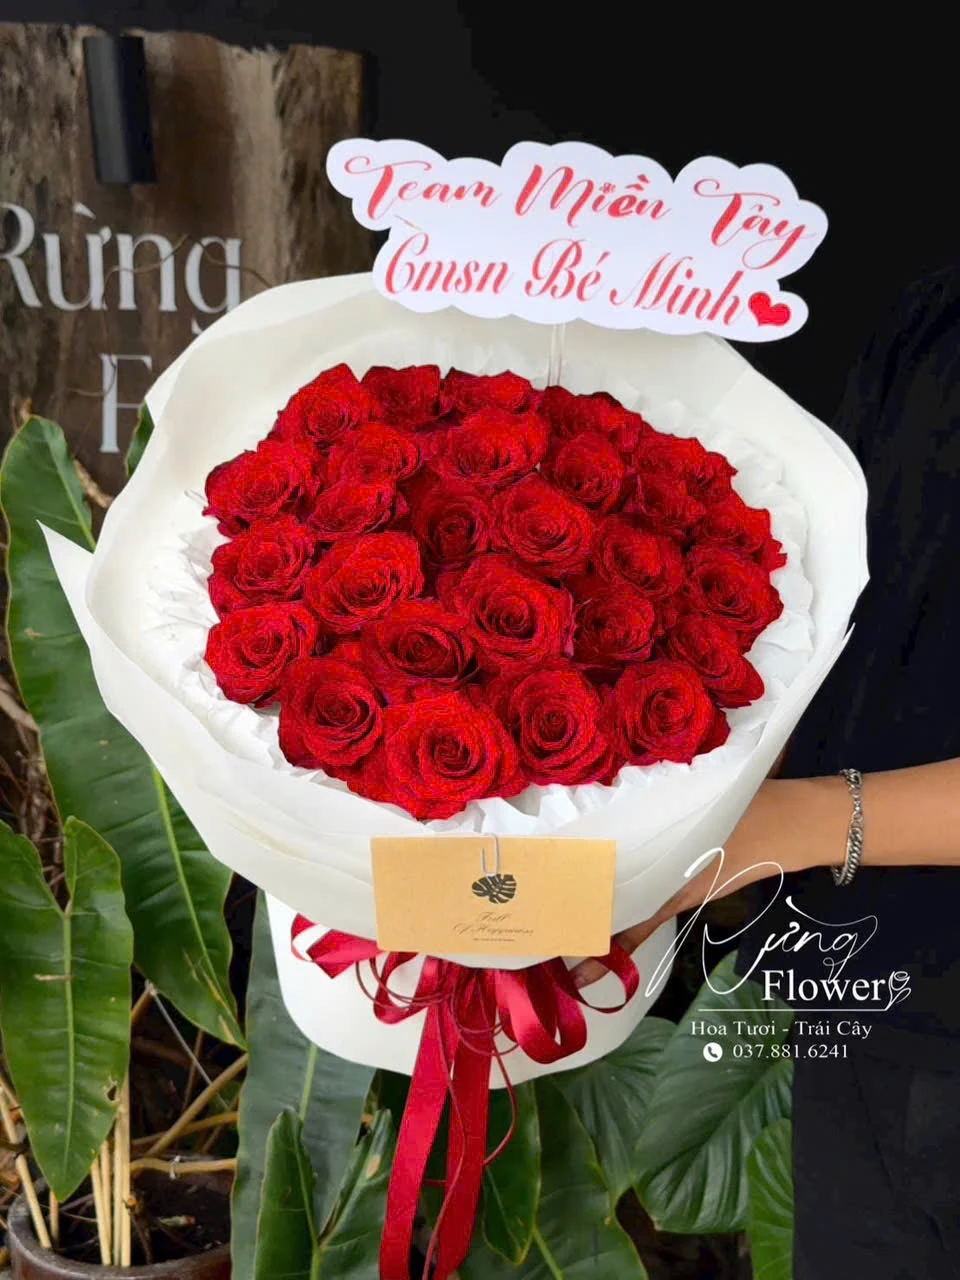
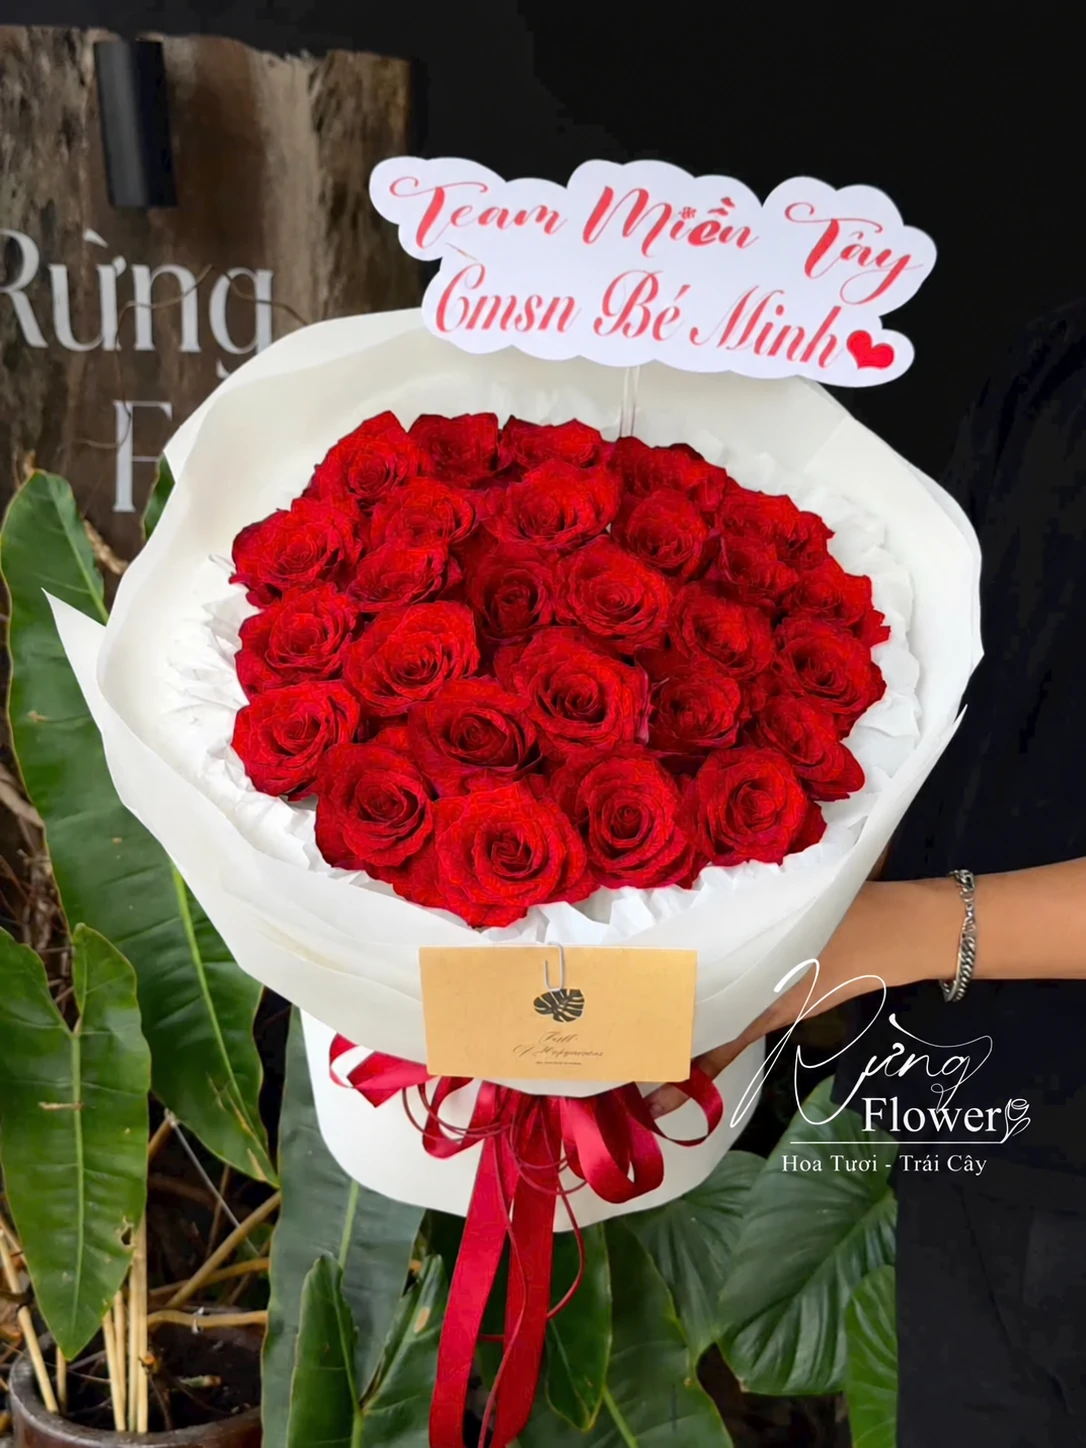
fix: 更新作品圖片並移除 R008 電話

diff --git a/gallery/index.html b/gallery/index.html
@@ -189,7 +189,7 @@
         },
         {
           "@type": "ImageObject",
-          "contentUrl": "https://flower-shop-vn.com/images/gallery/2026/r008.webp",
+          "contentUrl": "https://flower-shop-vn.com/images/gallery/2026/r008.webp?v=b58aa34a6f48",
           "caption": "R008 紅玫瑰・白色圓形包裝（作品照片）"
         },
         {
@@ -451,6 +451,21 @@
           "@type": "ImageObject",
           "contentUrl": "https://flower-shop-vn.com/images/gallery/2026/b017.webp",
           "caption": "B017 奶油粉綜合花束・自然色包裝"
+        },
+        {
+          "@type": "ImageObject",
+          "contentUrl": "https://flower-shop-vn.com/images/gallery/2026/b018.webp",
+          "caption": "B018 向日葵綜合花束・黑色包裝"
+        },
+        {
+          "@type": "ImageObject",
+          "contentUrl": "https://flower-shop-vn.com/images/gallery/2026/r039.webp",
+          "caption": "R039 奶油色玫瑰・淡色網紗"
+        },
+        {
+          "@type": "ImageObject",
+          "contentUrl": "https://flower-shop-vn.com/images/gallery/2026/m010.webp",
+          "caption": "M010 粉色鈔票花束・白色層疊包裝"
         }
       ]
     },
@@ -503,9 +518,9 @@
             <h1>花束與禮籃，先從照片選方向。</h1>
             <p>查看花束、瓶插花禮、鈔票花束與水果禮籃的款式。找到喜歡的方向後，提供作品編號或作品連結，加上收件城市、日期與預算，就能向中文客服詢價。</p>
             <nav class="button-row" aria-label="作品分類">
-              <a class="button button-secondary" href="#roses">花束與配色 · 55</a>
+              <a class="button button-secondary" href="#roses">花束與配色 · 57</a>
               <a class="button button-secondary" href="#vase-arrangements">瓶插花禮 · 1</a>
-              <a class="button button-secondary" href="#money-bouquets">鈔票花束 · 9</a>
+              <a class="button button-secondary" href="#money-bouquets">鈔票花束 · 10</a>
               <a class="button button-secondary" href="#fruit-baskets">水果與花果禮籃 · 16</a>
             </nav>
           </div>
@@ -525,6 +540,19 @@
       <div class="container">
         <div class="section-heading"><h2 id="roses-title">花束與配色</h2><p>查看紅色、粉白色、藍色玫瑰、繡球與綜合花束，從花色、花面及包裝比例挑選方向。</p></div>
         <div class="case-gallery-grid">
+          <article class="case-card portfolio-work" id="work-B018">
+            <a href="/images/gallery/2026/b018.webp" target="_blank" rel="noopener" aria-label="放大作品 B018：向日葵綜合花束・黑色包裝"><img src="/images/gallery/2026/b018.webp" alt="向日葵綜合花束・黑色包裝" width="966" height="1600" loading="lazy" decoding="async"></a>
+            <div class="case-card-body"><span class="case-category">作品照片</span><p class="work-code">作品 B018</p><h3>向日葵綜合花束・黑色包裝</h3><p>向日葵搭配粉色、奶油色與藍色花材，使用黑色多層包裝，可參考大花面的配色與層次。</p>
+              <div class="button-row"><a class="button button-secondary" href="/contact/?work=B018#inquiry">用這款詢價</a><a class="work-permalink" href="#work-B018">作品連結</a></div>
+            </div>
+          </article>
+          <article class="case-card portfolio-work" id="work-R039">
+            <a href="/images/gallery/2026/r039.webp" target="_blank" rel="noopener" aria-label="放大作品 R039：奶油色玫瑰・淡色網紗"><img src="/images/gallery/2026/r039.webp" alt="奶油色玫瑰・淡色網紗" width="1200" height="1600" loading="lazy" decoding="async"></a>
+            <div class="case-card-body"><span class="case-category">作品照片</span><p class="work-code">作品 R039</p><h3>奶油色玫瑰・淡色網紗</h3><p>奶油色玫瑰搭配尤加利葉、白色包裝與淡色網紗蝴蝶結，可參考柔和的花面與包裝比例。</p>
+              <div class="button-row"><a class="button button-secondary" href="/contact/?work=R039#inquiry">用這款詢價</a><a class="work-permalink" href="#work-R039">作品連結</a></div>
+            </div>
+          </article>
+
           <article class="case-card portfolio-work" id="work-R035">
             <a href="/images/gallery/2026/r035.webp" target="_blank" rel="noopener" aria-label="放大作品 R035：淡粉玫瑰・粉色蝴蝶結"><img src="/images/gallery/2026/r035.webp" alt="淡粉玫瑰・粉色蝴蝶結" width="869" height="894" loading="lazy" decoding="async"></a>
             <div class="case-card-body"><span class="case-category">作品照片</span><p class="work-code">作品 R035</p><h3>淡粉玫瑰・粉色蝴蝶結</h3><p>淡粉玫瑰搭配白色滿天星、粉色包裝與蝴蝶結，可參考花面及包裝細節。</p>
@@ -732,7 +760,7 @@
             </div>
           </article>
           <article class="case-card portfolio-work" id="work-R008">
-            <a href="/images/gallery/2026/r008.webp" target="_blank" rel="noopener" aria-label="放大作品 R008：紅玫瑰・白色圓形包裝"><img src="/images/gallery/2026/r008.webp" alt="紅玫瑰・白色圓形包裝" width="960" height="1280" loading="lazy" decoding="async"></a>
+            <a href="/images/gallery/2026/r008.webp?v=b58aa34a6f48" target="_blank" rel="noopener" aria-label="放大作品 R008：紅玫瑰・白色圓形包裝"><img src="/images/gallery/2026/r008.webp?v=b58aa34a6f48" alt="紅玫瑰・白色圓形包裝" width="1086" height="1448" loading="lazy" decoding="async"></a>
             <div class="case-card-body"><span class="case-category">作品照片</span><p class="work-code">作品 R008</p><h3>紅玫瑰・白色圓形包裝</h3><p>集中排列的紅玫瑰搭配白色包裝與紅色緞帶，可參考醒目的紅白對比。</p>
               <div class="button-row"><a class="button button-secondary" href="/contact/?work=R008#inquiry">用這款詢價</a><a class="work-permalink" href="#work-R008">作品連結</a></div>
             </div>
@@ -878,6 +906,13 @@
       <div class="container">
         <div class="section-heading"><h2 id="money-bouquets-title">鈔票花束</h2><p>參考扇形、圓形與小卡搭配；幣別、金額及製作費用需另行確認。</p></div>
         <div class="case-gallery-grid">
+          <article class="case-card portfolio-work" id="work-M010">
+            <a href="/images/gallery/2026/m010.webp" target="_blank" rel="noopener" aria-label="放大作品 M010：粉色鈔票花束・白色層疊包裝"><img src="/images/gallery/2026/m010.webp" alt="粉色鈔票花束・白色層疊包裝" width="903" height="1600" loading="lazy" decoding="async"></a>
+            <div class="case-card-body"><span class="case-category">作品照片</span><p class="work-code">作品 M010</p><h3>粉色鈔票花束・白色層疊包裝</h3><p>鈔票造型與粉色花朵搭配粉色小緞帶、白色層疊包裝及大蝴蝶結；幣別、金額與製作方式需另行確認。</p>
+              <div class="button-row"><a class="button button-secondary" href="/contact/?work=M010#inquiry">用這款詢價</a><a class="work-permalink" href="#work-M010">作品連結</a></div>
+            </div>
+          </article>
+
           <article class="case-card portfolio-work" id="work-M007">
             <a href="/images/gallery/2026/m007.webp" target="_blank" rel="noopener" aria-label="放大作品 M007：鈔票花束・圓形滿天星"><img src="/images/gallery/2026/m007.webp" alt="鈔票花束・圓形滿天星" width="963" height="1284" loading="lazy" decoding="async"></a>
             <div class="case-card-body"><span class="case-category">作品照片</span><p class="work-code">作品 M007</p><h3>鈔票花束・圓形滿天星</h3><p>鈔票折成花瓣排列成圓形，周圍搭配白色滿天星與粉色多層包裝；幣別、金額與製作方式需另行確認。</p>
@@ -1045,7 +1080,7 @@
         <h2>傳作品連結或編號，就能開始詢價。</h2>
         <p>例如：「想參考 F002，送到胡志明市」，再補上預計收件日期與預算。客服會依款式、花材或水果內容，確認報價及配送安排。</p>
         <div class="button-row"><a class="button button-primary" href="/contact/#inquiry">填寫詢價資料</a><a class="button button-secondary" href="/pricing/">查看價格與規則</a></div>
-        <p class="updated-at">最後更新：2026 年 9 月 30 日</p>
+        <p class="updated-at">最後更新：2026 年 10 月 5 日</p>
       </div></div>
     </section>
   </main>

diff --git a/contact/index.html b/contact/index.html
@@ -72,7 +72,7 @@
           <p>可先修改下方內容，再複製到 LINE 或 Zalo。這個網站不會儲存或傳送你填寫的資料。</p>
         </div>
         <label for="inquiry-template"><strong>詢價內容</strong></label>
-        <textarea id="inquiry-template" data-work-codes="R001,M001,M002,M003,M004,R002,B001,V001,M005,M006,F001,F002,F003,F004,F005,F006,F007,F008,F009,F010,F011,F012,R003,R004,R005,R006,B002,R007,B003,B004,R008,R009,R010,R011,B005,R012,R013,R014,B006,B007,R015,B008,R016,R017,R018,R019,R020,R021,R022,R023,R024,B009,R025,R026,B010,B011,R027,R028,R029,B012,B013,B014,B015,R030,R031,R032,M007,R033,M008,B016,F013,F014,F015,F016,M009,R034,R035,R036,R037,R038,B017" data-inquiry-template>【越南送花詢價】
+        <textarea id="inquiry-template" data-work-codes="R001,M001,M002,M003,M004,R002,B001,V001,M005,M006,F001,F002,F003,F004,F005,F006,F007,F008,F009,F010,F011,F012,R003,R004,R005,R006,B002,R007,B003,B004,R008,R009,R010,R011,B005,R012,R013,R014,B006,B007,R015,B008,R016,R017,R018,R019,R020,R021,R022,R023,R024,B009,R025,R026,B010,B011,R027,R028,R029,B012,B013,B014,B015,R030,R031,R032,M007,R033,M008,B016,F013,F014,F015,F016,M009,R034,R035,R036,R037,R038,B017,B018,R039,M010" data-inquiry-template>【越南送花詢價】
 收件城市：
 完整地址或區域：
 希望送達日期與時段：
